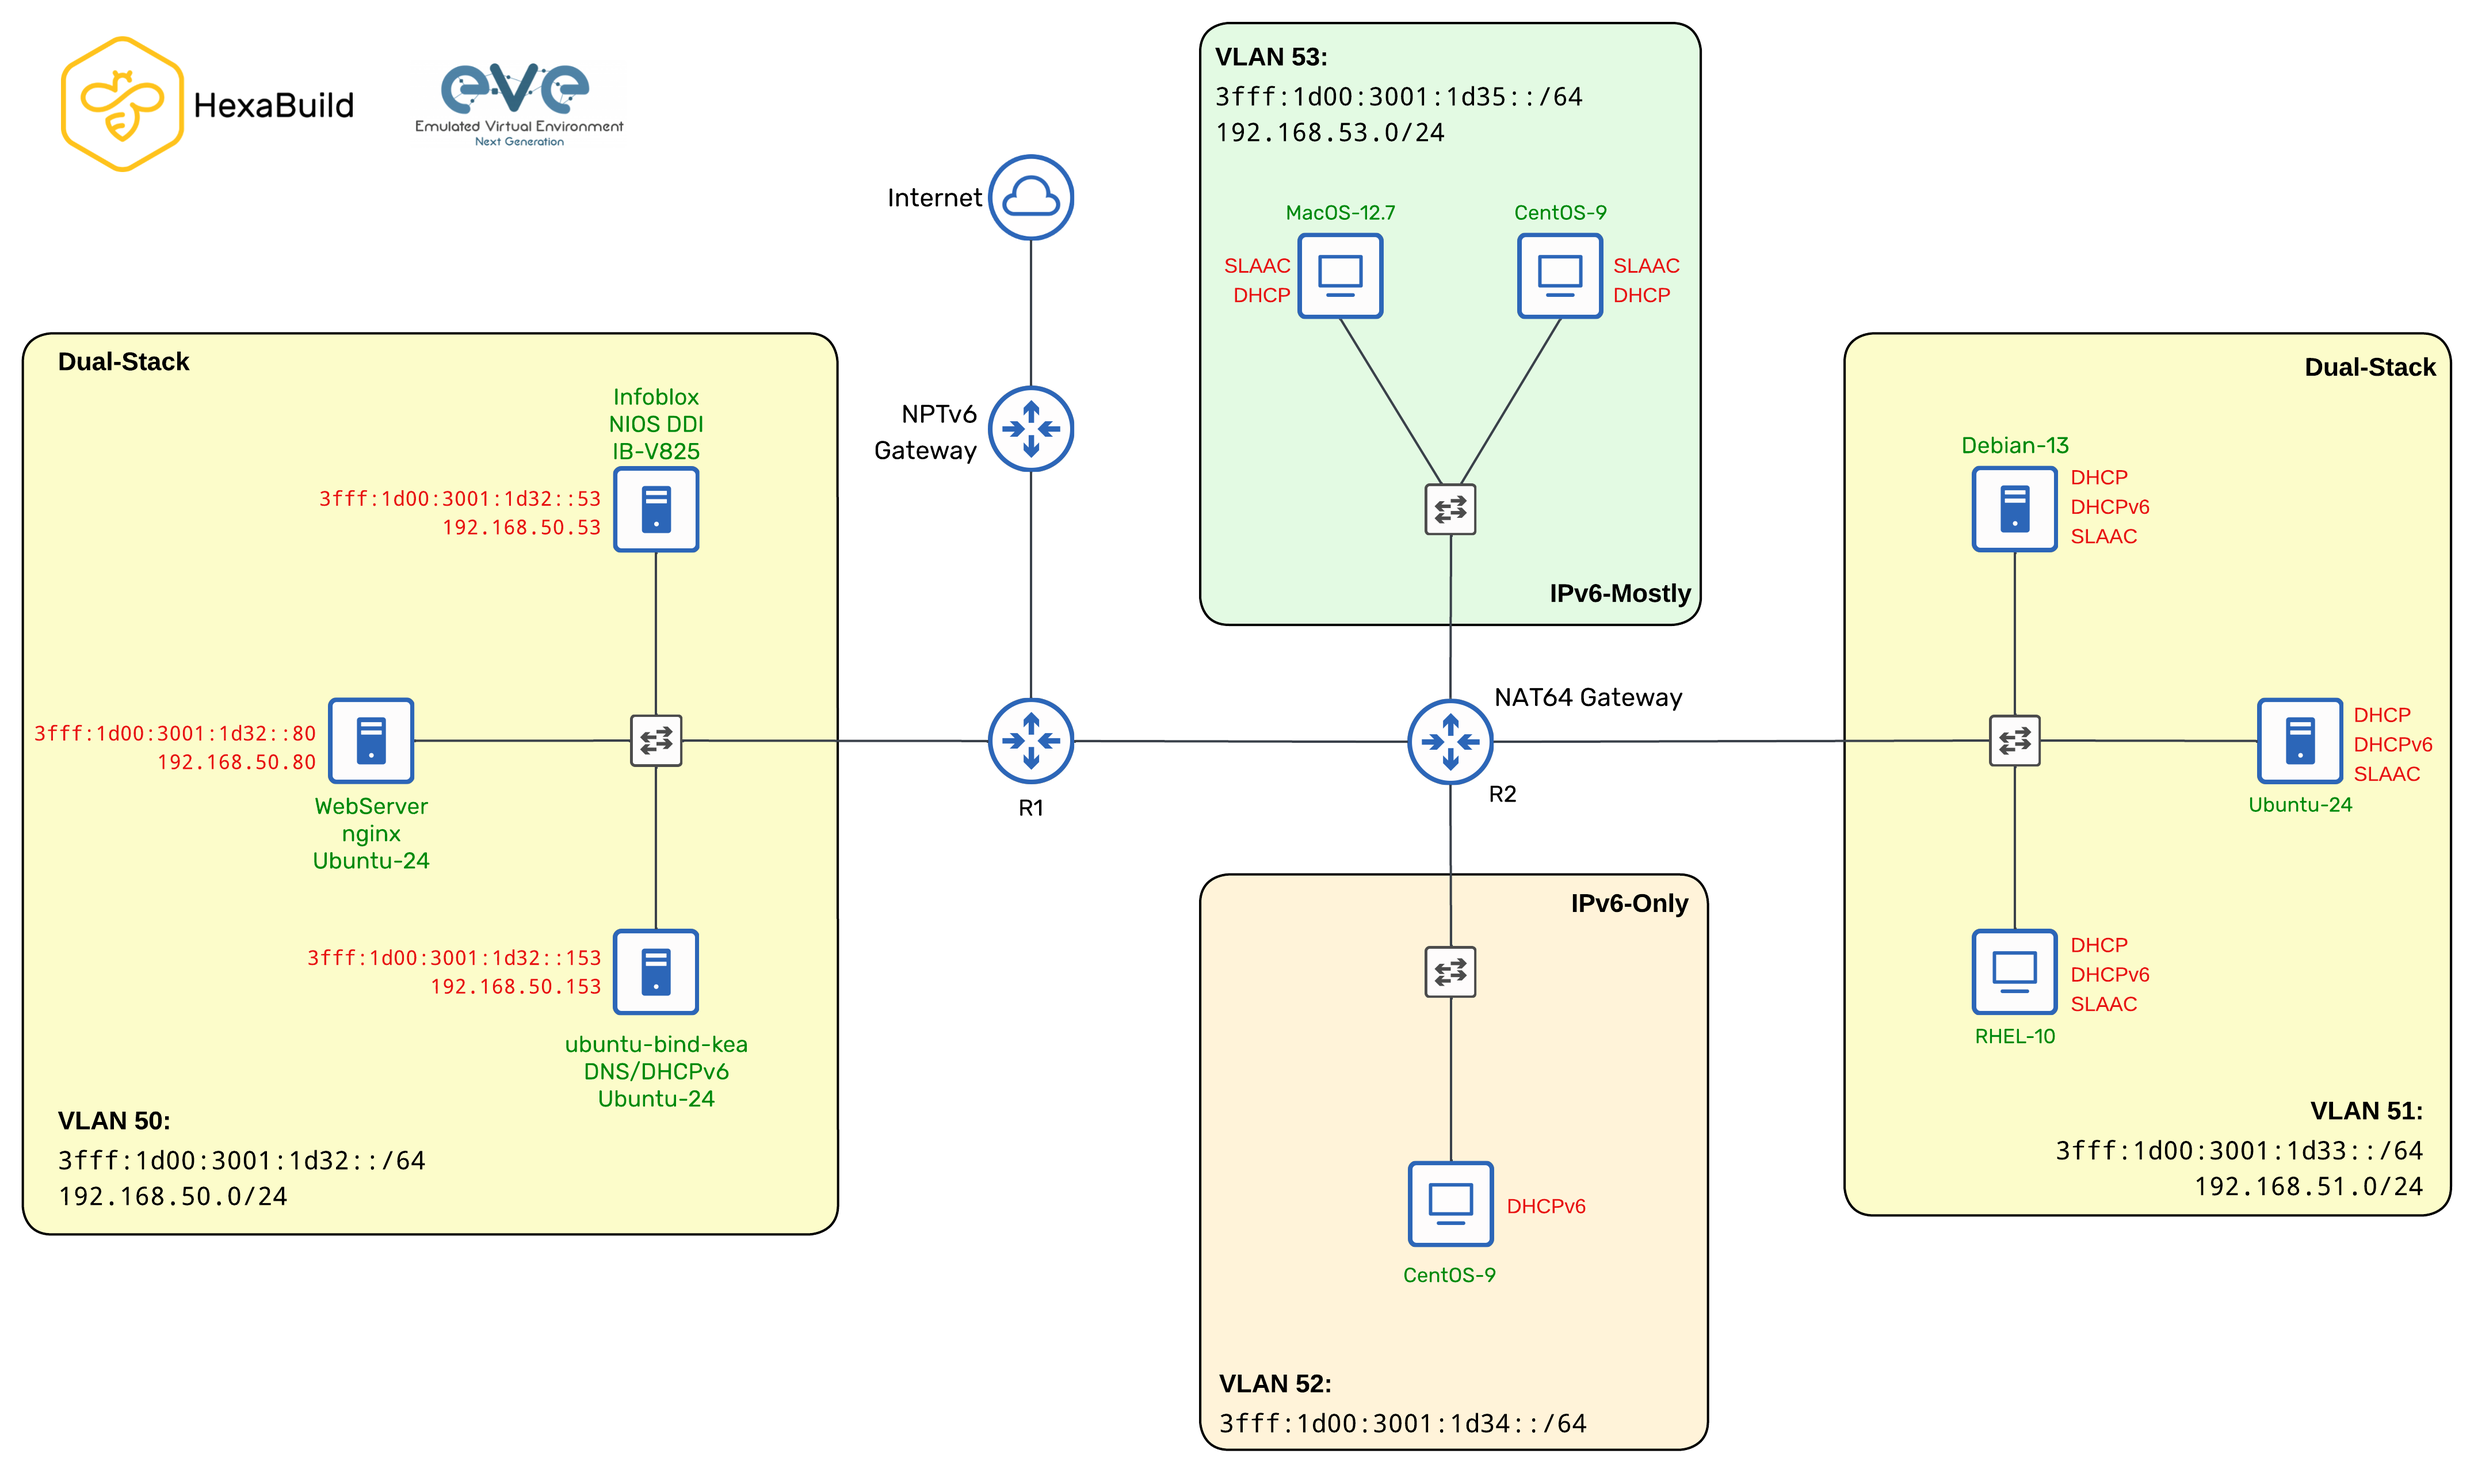
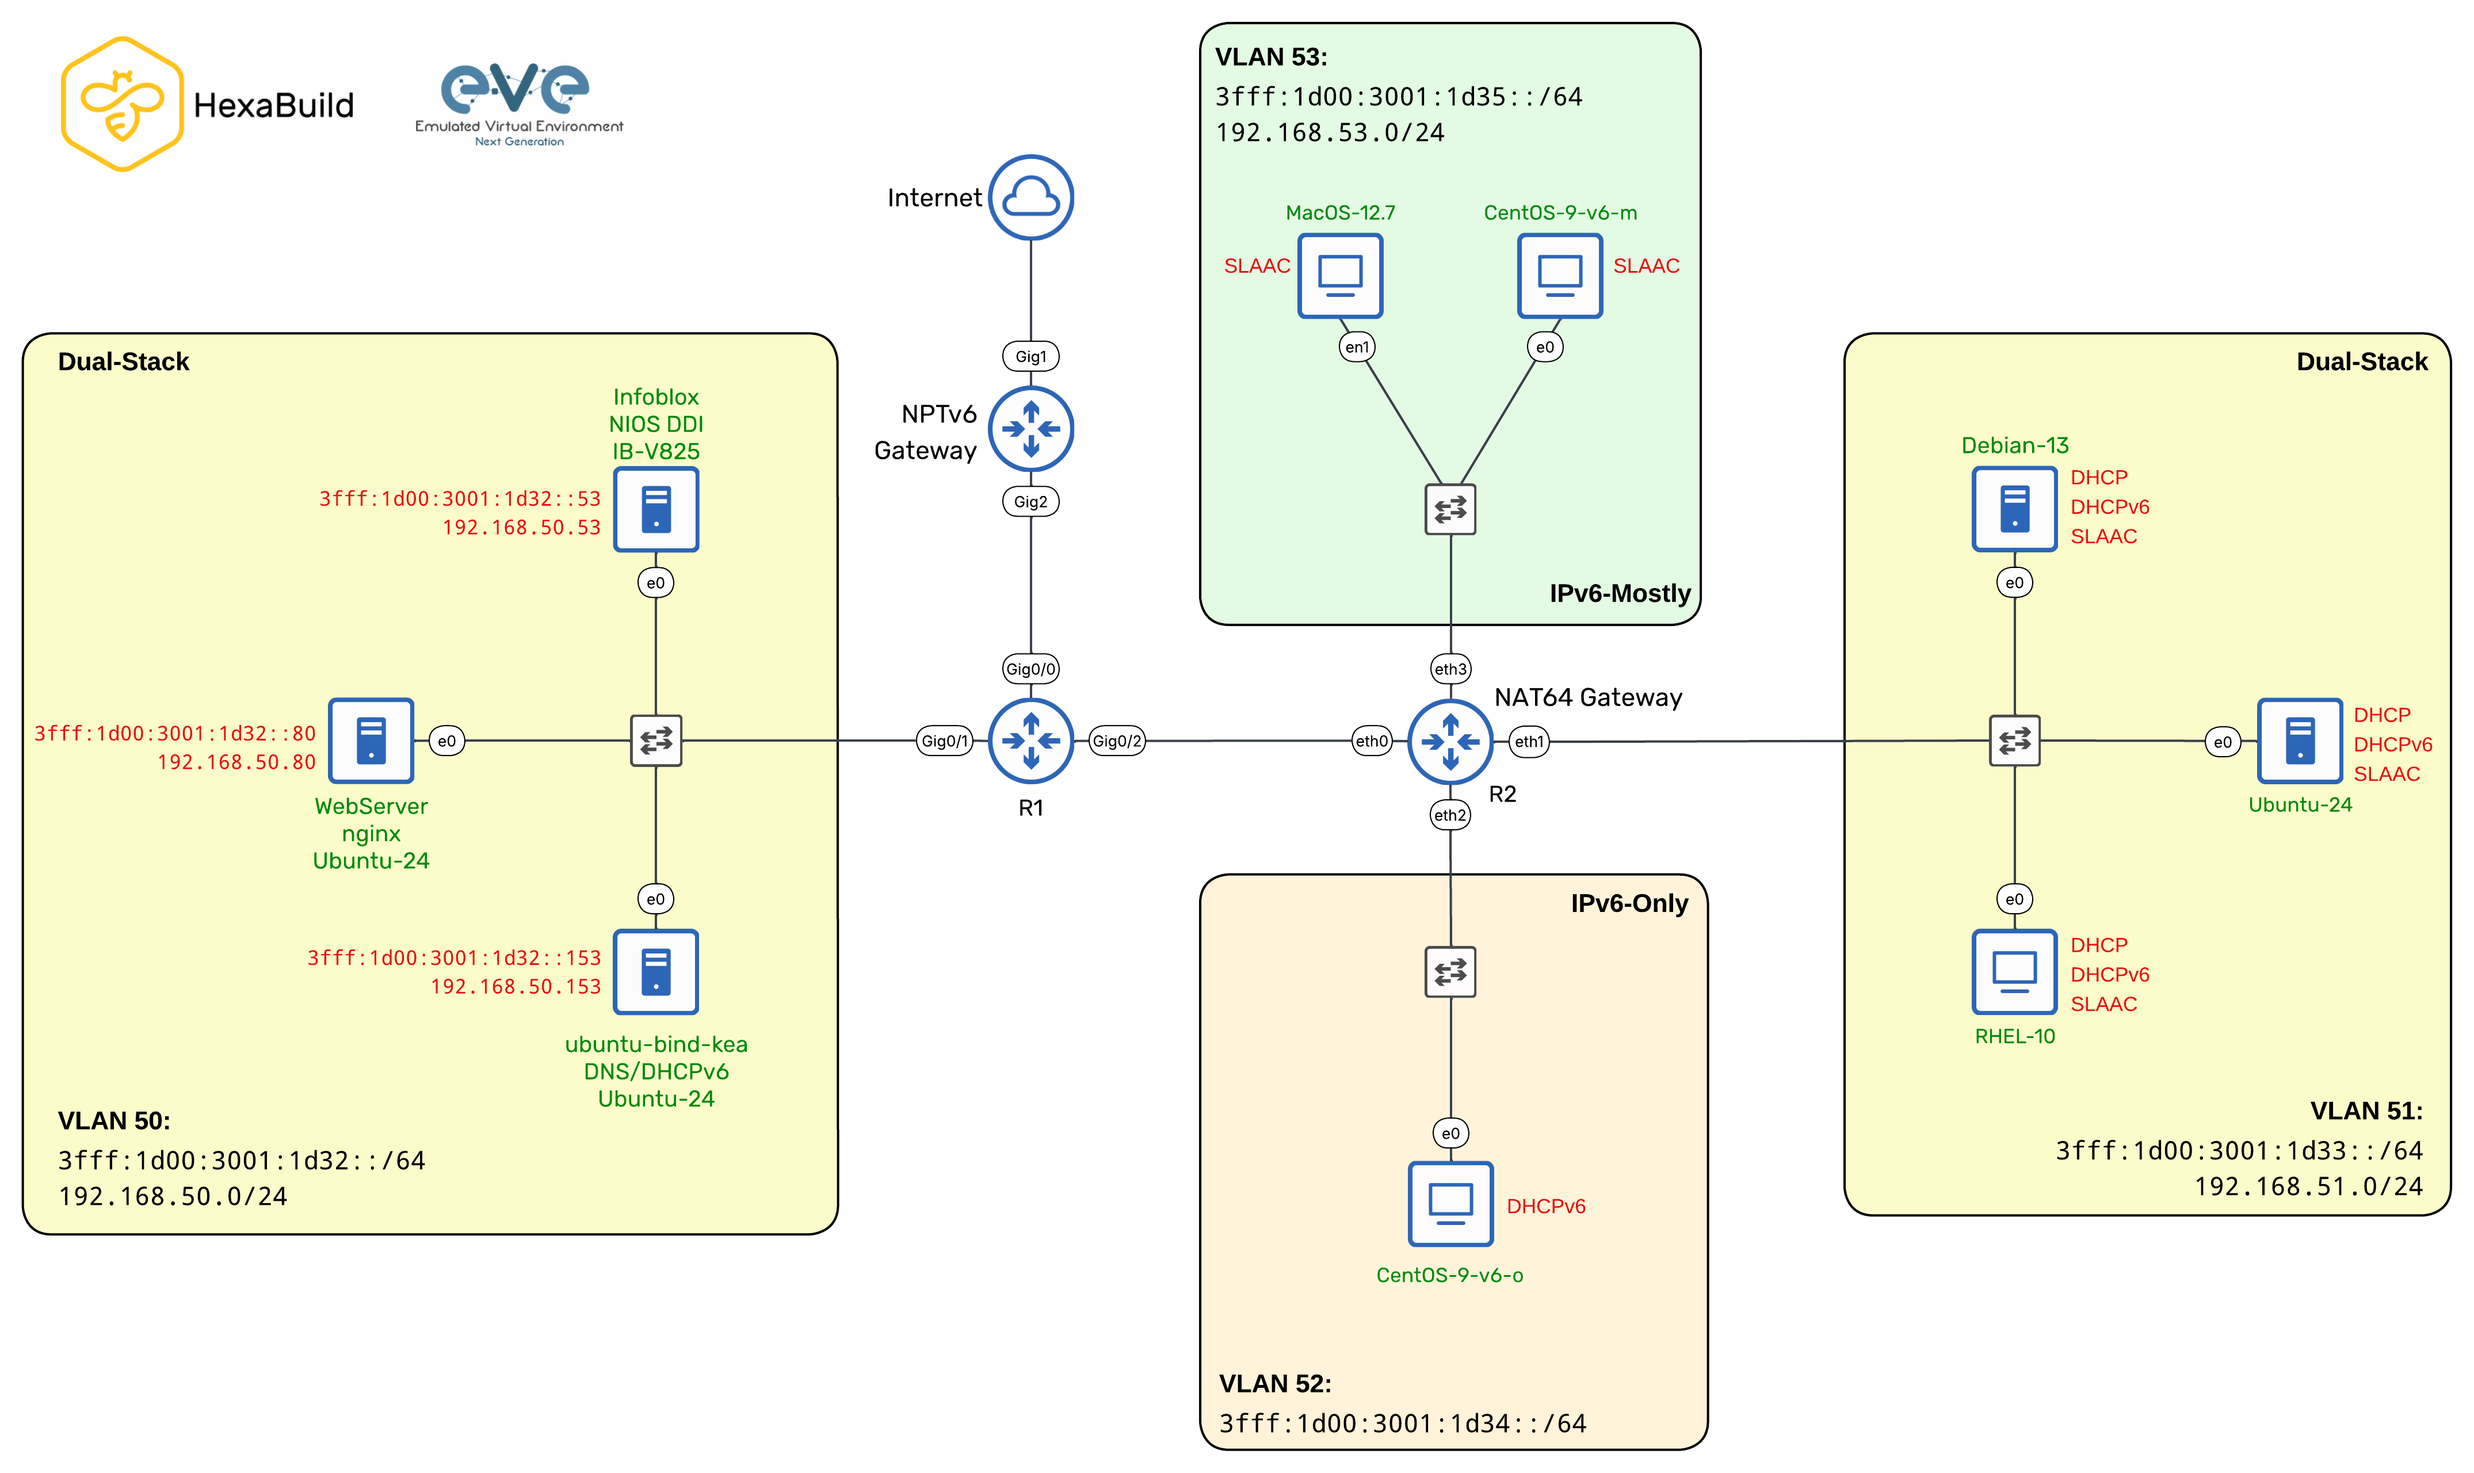
.

diff --git a/Linux Demos/Linux Demo 10 - IPv6-Mostly with Clatd.md b/Linux Demos/Linux Demo 10 - IPv6-Mostly with Clatd.md
@@ -23,11 +23,14 @@
 
    - Was the ping successful?
 
-5. Review the log for the clatd service by running the command `journalctl -u clatd.service`
+5. Traceroute to the same IPv4-only domain; e.g., `traceroute github.com`
+
+   - What is the address of the first hop?
+
+6. Review the log for the clatd service on the IPv6-mostly host by running the command `journalctl -u clatd.service`
 
    - How did clatd learn the NAT64 prefix?
    - What does Tayga do?
-
 
 ```console
 [user@CentOS-9-v6-m ~]$ journalctl -u clatd.service
